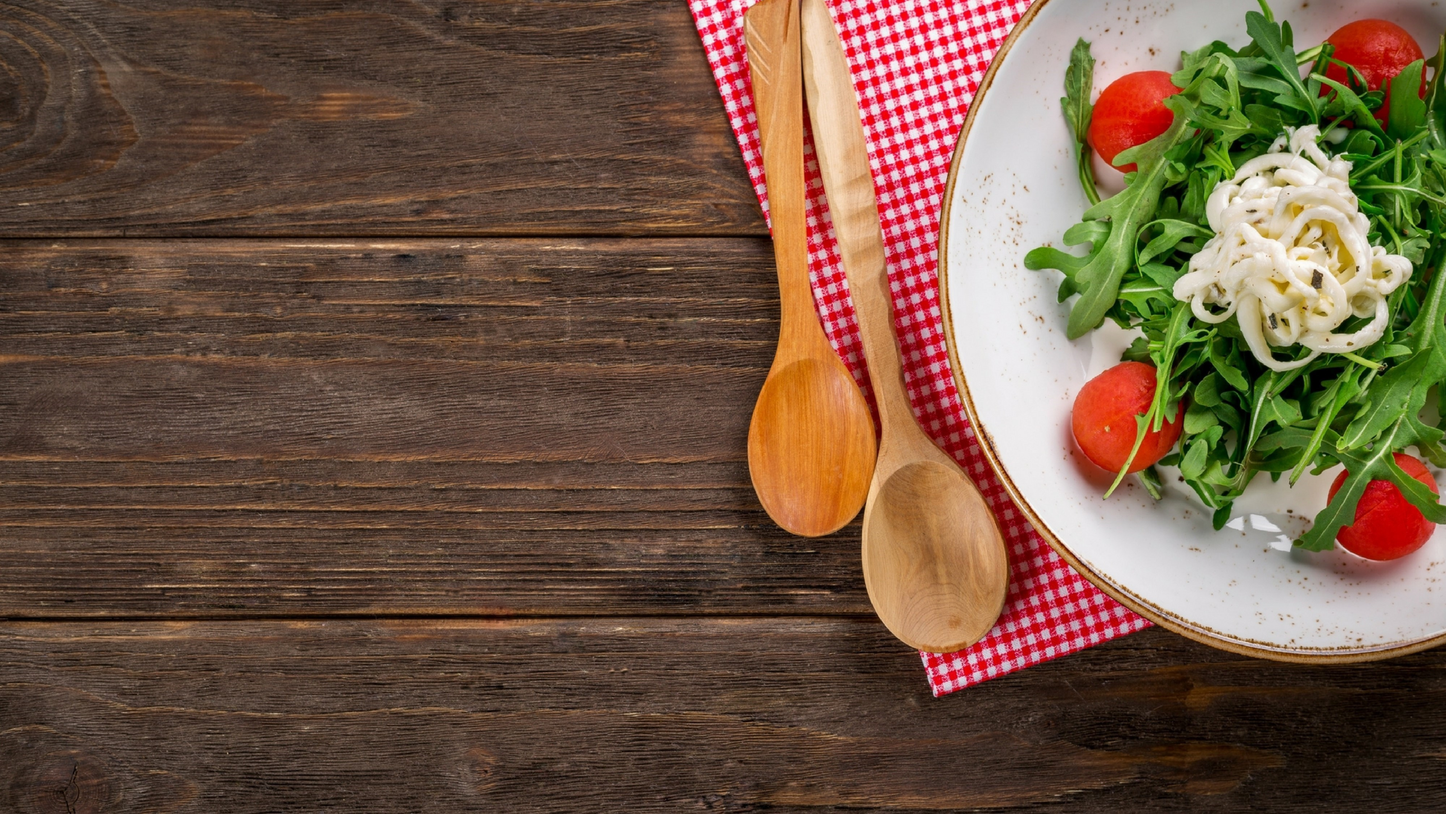
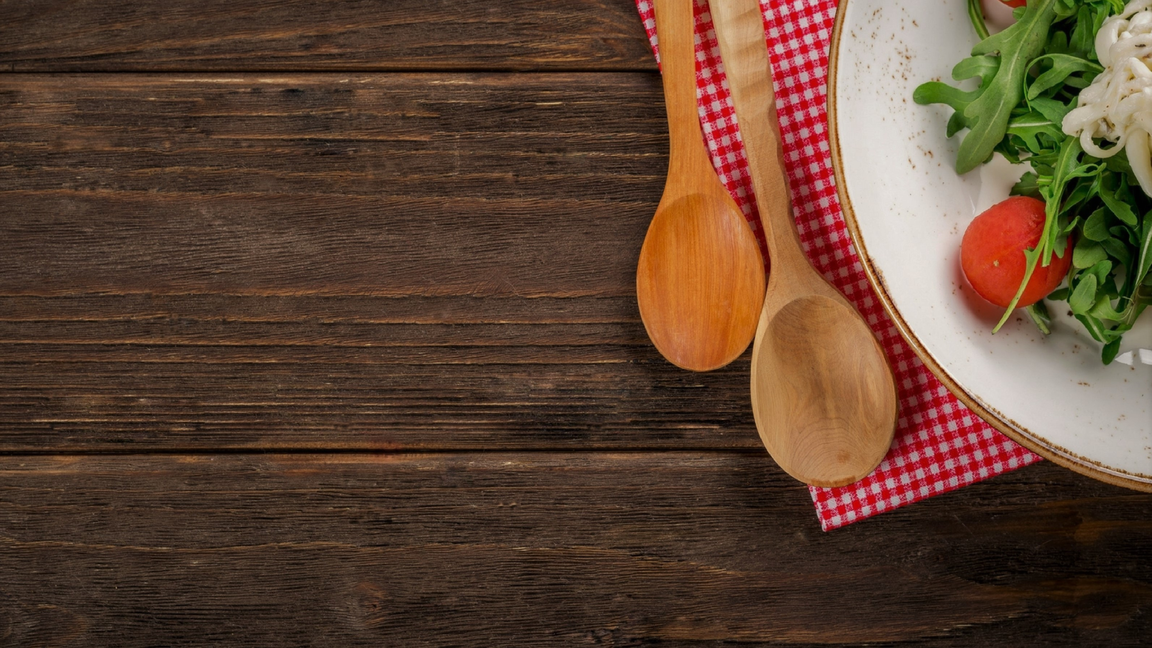
unnecessary images romoved. Login background edited

diff --git a/css/login_test.css b/css/login_test.css
@@ -126,7 +126,7 @@ iframe {
     line-height: 1.5;
   }
 
-  /*//////////////////////////////////////////////////////////////////
+  /*///////////////////////////////////////////////////////////////////
 [ login ]*/
 
 .limiter {
@@ -146,13 +146,13 @@ iframe {
     justify-content: center;
     align-items: center;
     padding: 15px;
-    background-image: "/../img/login_back.jpg";
-    background-size: contain;  
+    background-image: url("/../OfferSync/img/login_back.jpg");
+    background-size: cover;  
   }
   
   .wrap-login100 {
     width: 390px;
-    background: #fff;
+    background: rgb(153, 71, 17);
     border-radius: 10px;
     overflow: hidden;
     padding: 77px 55px 33px 55px;

diff --git a/Login/login_test.html b/Login/login_test.html
@@ -4,7 +4,7 @@
 	<link rel="stylesheet" type="text/css" href="/../OfferSync/css/login_test.css">
 	<link rel="stylesheet" type="text/css" href="/../OfferSync/css/util.css">
 </head>
-<body background="/img/login_back.jpg">
+<body>
 	
 	<div class="limiter">
 		<div class="container-login100">
